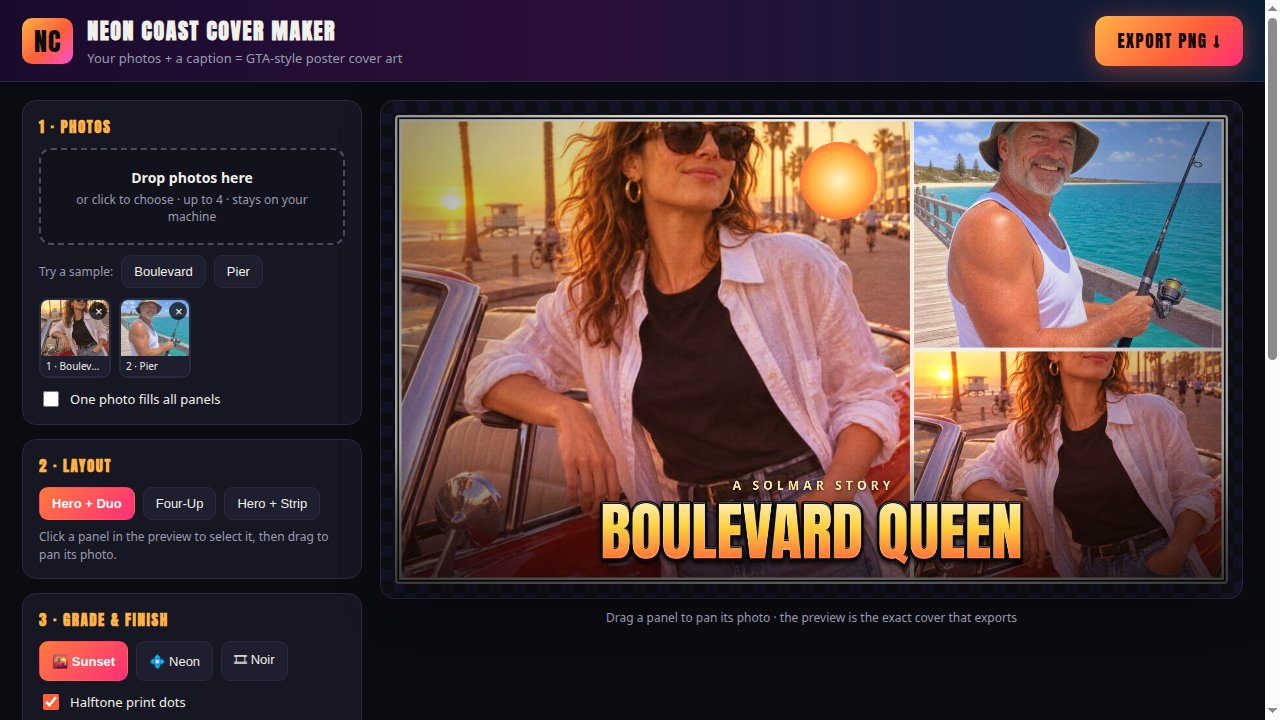
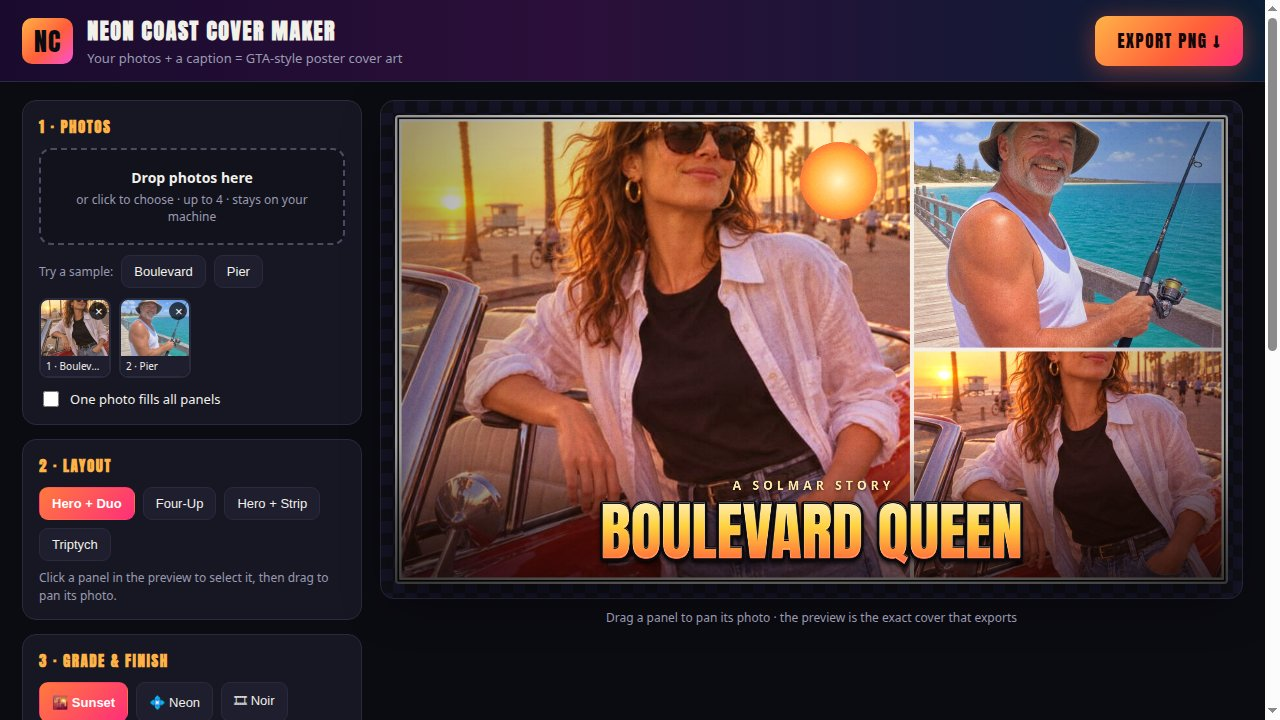
Revision: add 4th layout (Triptych) + build summary in main.ts
- Triptych layout: wide centre hero with narrow wings (render.js, index.html)
- main.ts now prints app/screenshot file counts after the dossier write
- Shot 4 re-taken as Triptych/noir square; shot 2 re-taken with 4 layout buttons
- README updated to 4 layouts

Changed region(s): [[0.0312, 0.7333, 0.25, 1.0], [0.1875, 0.8861, 0.2188, 0.9778]]

diff --git a/main.ts b/main.ts
@@ -7,7 +7,7 @@
 //   MAKEFUN_OUTPUT_DIR=out node main.ts
 // (defaults to /output when MAKEFUN_OUTPUT_DIR is unset)
 
-import { cpSync, existsSync, mkdirSync, rmSync, writeFileSync } from 'node:fs';
+import { cpSync, existsSync, mkdirSync, readdirSync, rmSync, writeFileSync } from 'node:fs';
 import { dirname, join, resolve } from 'node:path';
 import { fileURLToPath } from 'node:url';
 import { buildDossier } from './vendor/makefun-app.ts';
@@ -41,7 +41,15 @@ function main(): void {
   copyTree('screenshots');
   const dossier = buildDossier(OUT_DIR, DOSSIER_CAPS);
   writeFileSync(join(OUT_DIR, 'dossier.json'), dossier);
+  const countFiles = (dir: string): number => {
+    let n = 0;
+    for (const e of readdirSync(dir, { withFileTypes: true })) {
+      n += e.isDirectory() ? countFiles(join(dir, e.name)) : 1;
+    }
+    return n;
+  };
   console.log(`wrote ${join(OUT_DIR, 'dossier.json')} (${dossier.length} bytes)`);
+  console.log(`app/: ${countFiles(join(OUT_DIR, 'app'))} files, screenshots/: ${countFiles(join(OUT_DIR, 'screenshots'))} files`);
 }
 
 main();

diff --git a/app/src/render.js b/app/src/render.js
@@ -6,6 +6,7 @@ export const LAYOUTS = [
   { id: 'hero-duo', name: 'Hero + Duo', panels: 3 },
   { id: 'four-up', name: 'Four-Up', panels: 4 },
   { id: 'hero-strip', name: 'Hero + Strip', panels: 4 },
+  { id: 'triptych', name: 'Triptych', panels: 3 },
 ];
 
 export const GRADES = ['sunset', 'neon', 'noir'];
@@ -43,6 +44,16 @@ export function layoutPanels(layout, W, H) {
       { x: x0, y: y0 + heroH + g, w: pw, h: stripH },
       { x: x0 + pw + g, y: y0 + heroH + g, w: pw, h: stripH },
       { x: x0 + 2 * (pw + g), y: y0 + heroH + g, w: pw, h: stripH },
+    ];
+  }
+  if (layout === 3) {
+    // Triptych: three tall panels — wide centre hero, narrow wings.
+    const sideW = cw * 0.24;
+    const midW = cw - 2 * sideW - 2 * g;
+    return [
+      { x: x0, y: y0, w: sideW, h: ch },
+      { x: x0 + sideW + g, y: y0, w: midW, h: ch },
+      { x: x0 + sideW + g + midW + g, y: y0, w: sideW, h: ch },
     ];
   }
   // Layout 0 — Hero + duo: big left hero, two stacked panels on the right.

diff --git a/app/index.html b/app/index.html
@@ -43,6 +43,7 @@
         <button type="button" class="btn seg" data-layout="0">Hero + Duo</button>
         <button type="button" class="btn seg" data-layout="1">Four-Up</button>
         <button type="button" class="btn seg" data-layout="2">Hero + Strip</button>
+        <button type="button" class="btn seg" data-layout="3">Triptych</button>
       </div>
       <p class="hint">Click a panel in the preview to select it, then drag to pan its photo.</p>
     </section>

diff --git a/README.md b/README.md
@@ -11,9 +11,10 @@ and never uploaded.
 - **Any photo** — drop in up to 4 photos (or use the built-in Boulevard / Pier
   samples), click a panel to select it, drag to pan, zoom with the slider,
   fit/fill per photo, or let one photo fill every panel.
-- **3 layouts** — Hero + Duo (big left hero, two stacked right), Four-Up (2×2
-  grid), Hero + Strip (big top hero, three below) — with white gutters and a
-  black frame, the classic poster look.
+- **4 layouts** — Hero + Duo (big left hero, two stacked right), Four-Up (2×2
+  grid), Hero + Strip (big top hero, three below), Triptych (wide centre
+  hero with narrow wings) — with white gutters and a black frame, the
+  classic poster look.
 - **3 grades** — Sunset (orange → pink → purple, with a glowing sun in the
   hero panel), Neon (magenta/cyan glow, high contrast), Noir (desaturated,
   heavy vignette) — plus halftone print dots and film grain toggles.
